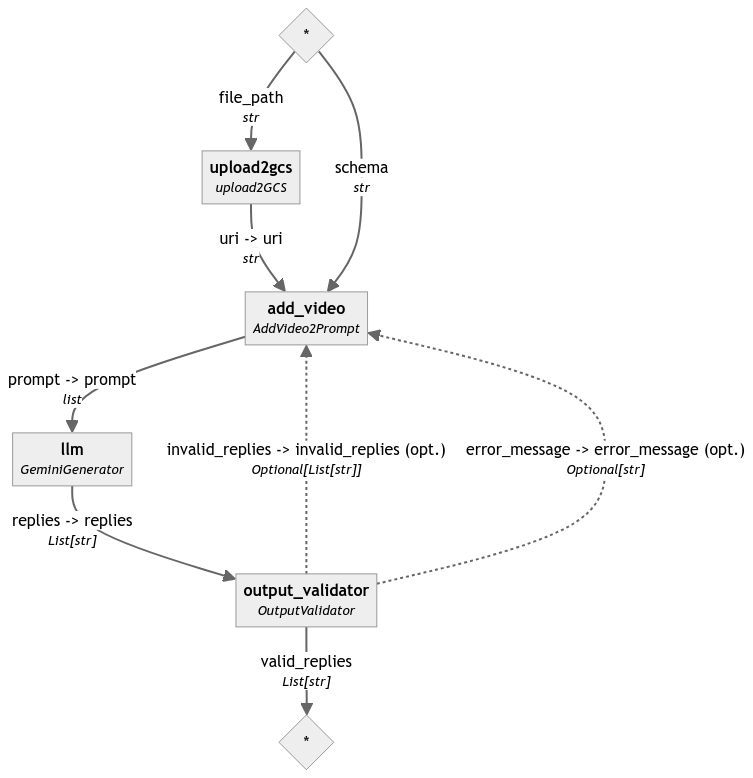
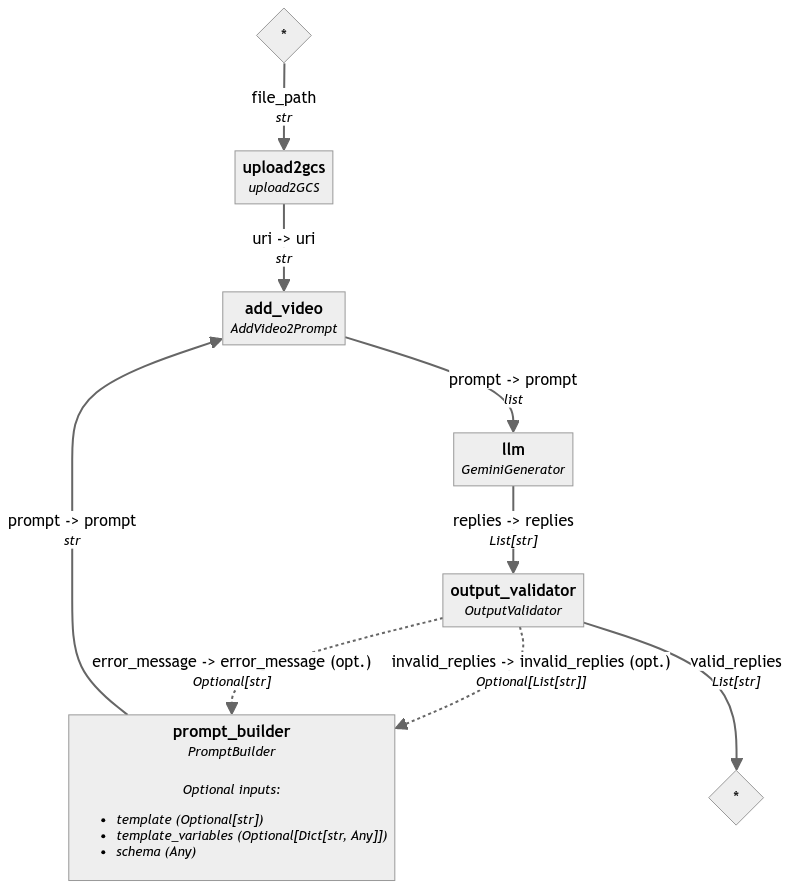
將prompt builder獨立出來

diff --git a/my-app/resources/haystack_gemini.py b/my-app/resources/haystack_gemini.py
@@ -103,9 +103,8 @@ class AddVideo2Prompt:
         self.prompt = prompt
 
     @component.output_types(prompt=list)
-    def run(self,schema: str , uri: str, invalid_replies: Optional[List[str]] = None, error_message: Optional[str] = None):
-        prompt = prompt_builder.run(schema=schema, invalid_replies=invalid_replies, error_message=error_message)
-        return {"prompt": [Part.from_uri(uri, mime_type="video/mp4"),prompt["prompt"]]}
+    def run(self, uri: str, prompt: str):
+        return {"prompt": [Part.from_uri(uri, mime_type="video/mp4"),prompt]}
 
 add_video_2_prompt = AddVideo2Prompt(prompt=prompt_builder)
 
@@ -147,6 +146,7 @@ pipeline = Pipeline(max_loops_allowed=5)
 # Add components to your pipeline
 # pipeline.add_component(instance=prompt_builder, name="prompt_builder")
 pipeline.add_component(instance=upload2gcs, name="upload2gcs")
+pipeline.add_component(instance=prompt_builder, name="prompt_builder")
 pipeline.add_component(instance=add_video_2_prompt, name="add_video")
 pipeline.add_component(instance=gemini_generator, name="llm")
 pipeline.add_component(instance=output_validator, name="output_validator")
@@ -154,19 +154,20 @@ pipeline.add_component(instance=output_validator, name="output_validator")
 # Now, connect the components to each other
 # pipeline.connect("prompt_builder", "add_video")
 pipeline.connect("upload2gcs", "add_video")
+pipeline.connect("prompt_builder", "add_video")
 pipeline.connect("add_video.prompt", "llm")
 # pipeline.connect("prompt_builder", "llm")
 pipeline.connect("llm", "output_validator")
 # # If a component has more than one output or input, explicitly specify the connections:
-pipeline.connect("output_validator.invalid_replies", "add_video.invalid_replies")
-pipeline.connect("output_validator.error_message", "add_video.error_message")
+pipeline.connect("output_validator.invalid_replies", "prompt_builder.invalid_replies")
+pipeline.connect("output_validator.error_message", "prompt_builder.error_message")
 
 
 path = argv[1]
 output_path = argv[2]
 result = pipeline.run({
     "upload2gcs": { "file_path": path},
-    "add_video": {"schema": json_schema}
+    "prompt_builder": {"schema": json_schema}
 })
 
 valid_reply = result["output_validator"]["valid_replies"][0]
